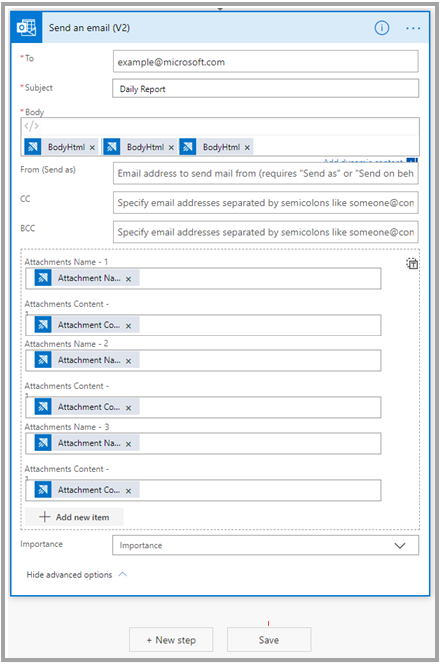
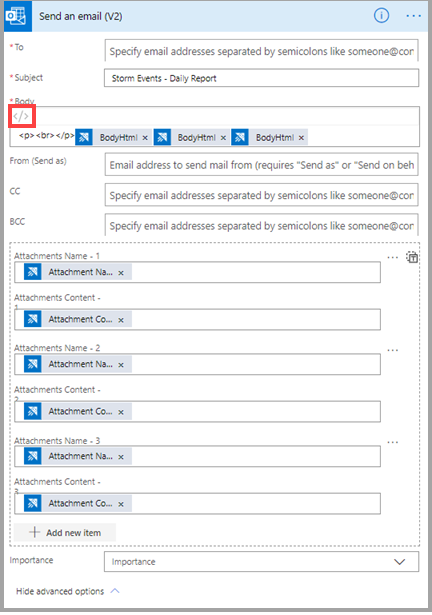
New images, removed examples, updated email

Changed region(s): [[0.0, 0.0, 1.0, 1.0]]

diff --git a/data-explorer/flow-usage.md b/data-explorer/flow-usage.md
@@ -19,8 +19,6 @@ For more information, see [Microsoft Flow connector (Preview)](flow.md).
 * [Push data to Power BI dataset](#push-data-to-power-bi-dataset)
 * [Conditional queries](#conditional-queries)
 * [Email multiple Azure Data Explorer Flow charts](#email-multiple-azure-data-explorer-flow-charts)
-* [Send a different email to different contacts](#send-a-different-email-to-different-contacts)
-* [Create a custom HTML table](#create-a-custom-html-table)
 
 ## Microsoft Flow connector and SQL
 
@@ -96,23 +94,21 @@ Visualize this information as a pie chart and email it to the team.
 
 ## Email multiple Azure Data Explorer Flow charts
 
-1. Create a new Flow with "Recurrence" trigger, and define the interval of the Flow and the frequency. 
+1. Create a new Flow with the recurrence trigger, and define the interval of the Flow and the frequency. 
 1. Add a new step, with one or more Kusto - Run query and visualize results actions. 
 
     ![Run several queries in a flow](./media/flow-usage/flow-severalqueries.png)
 1. For each Kusto - Run query and visualize result, define the following fields:
-    * Cluster URL (in the *Cluster Name* field)
+    * Cluster URL
     * Database Name
-    * Query and Chart Type (HTML Table/ Pie Chart/ Time Chart/ Bar Chart/ Enter Custom Value).
+    * Query and Chart Type (HTML table, pie chart, time chart, bar chart, or enter a custom value).
 
     ![Visualize results with multiple attachments](./media/flow-usage/flow-visualizeresultsmultipleattachments.png)
 
-    > [!IMPORTANT]
-    > In the *Cluster Name* fields, enter the cluster URL.
-
-1. Add a Send an email action. 
-    * In the *Body* field, insert the required body so that the visualized result of the query is included in the body of the email.
-    * To add an attachment to the email, add Attachment Name and Attachment Content.
+1. Add a Send an email (v2) action: 
+    1. In the body section, select the code view icon.
+    1. In the **Body** field, insert the required BodyHtml so that the visualized result of the query is included in the body of the email.
+    1. To add an attachment to the email, add Attachment Name and Attachment Content.
     
     ![Email multiple attachments](./media/flow-usage/flow-email-multiple-attachments.png)
 
@@ -123,68 +119,6 @@ Results:
 [![](./media/flow-usage/flow-resultsmultipleattachments.png "Results of multiple attachments")](./media/flow-usage/flow-resultsmultipleattachments.png#lightbox)
 
 [![](./media/flow-usage/flow-resultsmultipleattachments2.png "Results of multiple attachments")](./media/flow-usage/flow-resultsmultipleattachments2.png#lightbox)
-
-## Send a different email to different contacts
-
-You can leverage Microsoft Flow to send different customized emails to different contacts. The email addresses and the email contents are a result of a Kusto query.
-
-Example:
-
-![Dynamic email using a Kusto query](./media/flow-usage/flow-dynamicemailkusto.png)
-
-> [!IMPORTANT]
-> In the *Cluster Name* field, enter the cluster URL.
-
-![Dynamic email in the flow action](./media/flow-usage/flow-dynamicemail.png)
-
-## Create a custom HTML table
-
-You can leverage Microsoft Flow to create and use custom HTML elements, such as a custom HTML table.
-
-The following example demonstrates how to create a custom HTML table. The HTML table will have its rows colored by log level (the same as in Azure Data Explorer).
-
-Follow these instructions to create a similar Flow:
-
-1. Create a new Kusto - Run query and list results action.
-
-    ![List results for an HTML table](./media/flow-usage/flow-listresultforhtmltable.png)
-
-> [!IMPORTANT]
-> In the *Cluster Name* field, enter the cluster URL.
-
-1. Loop over the query results and create the HTML table body: 
-    1. To create a variable to hold the HTML string, select **New step**
-    1. Select **Add an action** and search for Variables. 
-    1. Select **Variables - Initialize variable**. 
-    1. Initialize a string variable as follows:
-
-    ![Initialize a variable](./media/flow-usage/flow-initializevariable.png)
-
-1. Loop over the results:
-    1. Select **New step**.
-    1. Select **Add an action**.
-    1. Search for Variables. 
-    1. Select **Variables - Append to string variable**. 
-    1. Select the variable name that you initialized before, and create the HTML table rows using the query results. 
-    When selecting the query results, Apply to each is automatically added.
-
-    In the example below, the `if` expression is used to define the style of each row:
-
-    ```if(equals(items('Apply_to_each')?['Level'], 'Warning'), 'Yellow', if(equals(items('Apply_to_each')?['Level'], 'Error'), 'red', 'white'))```
-
-    [![](./media/flow-usage/flow-createhtmltableloopcontent.png "Create HTML table loop content")](./media/flow-usage/flow-createhtmltableloopcontent.png#lightbox)
-
-1. Create the full HTML content: 
-    1. Add a new action outside Apply to each. 
-    In the following example the action used is Send an email.
-    1. Define your HTML table using the variable from the previous steps. 
-    1. If you're sending an email, select **Show advanced options** and, under Is HTML, select **Yes**.
-
-    ![Custom HTML table email](./media/flow-usage/flow-customhtmltablemail.png)
-
-Result:
-
-![Custom HTML table email result](./media/flow-usage/flow-customhtmltableresult.png)
 
 ## Next steps
 
